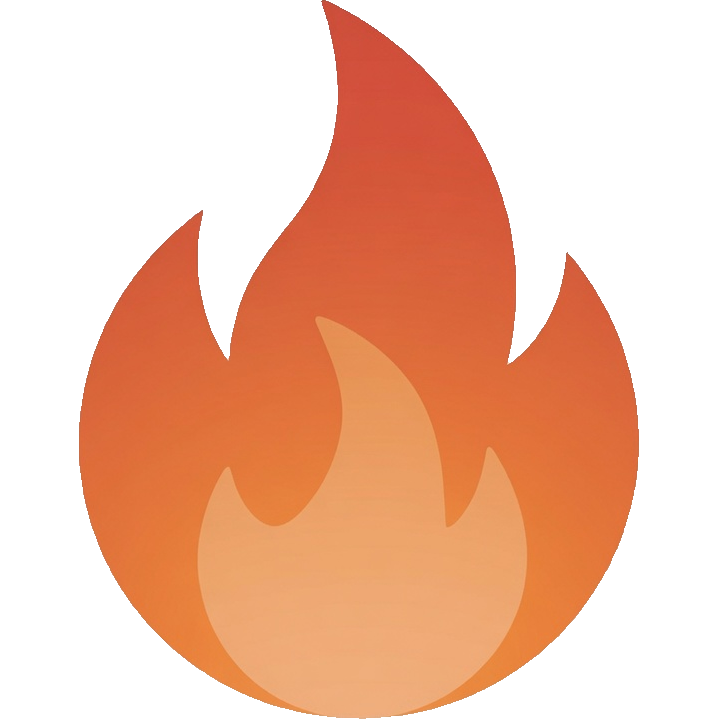
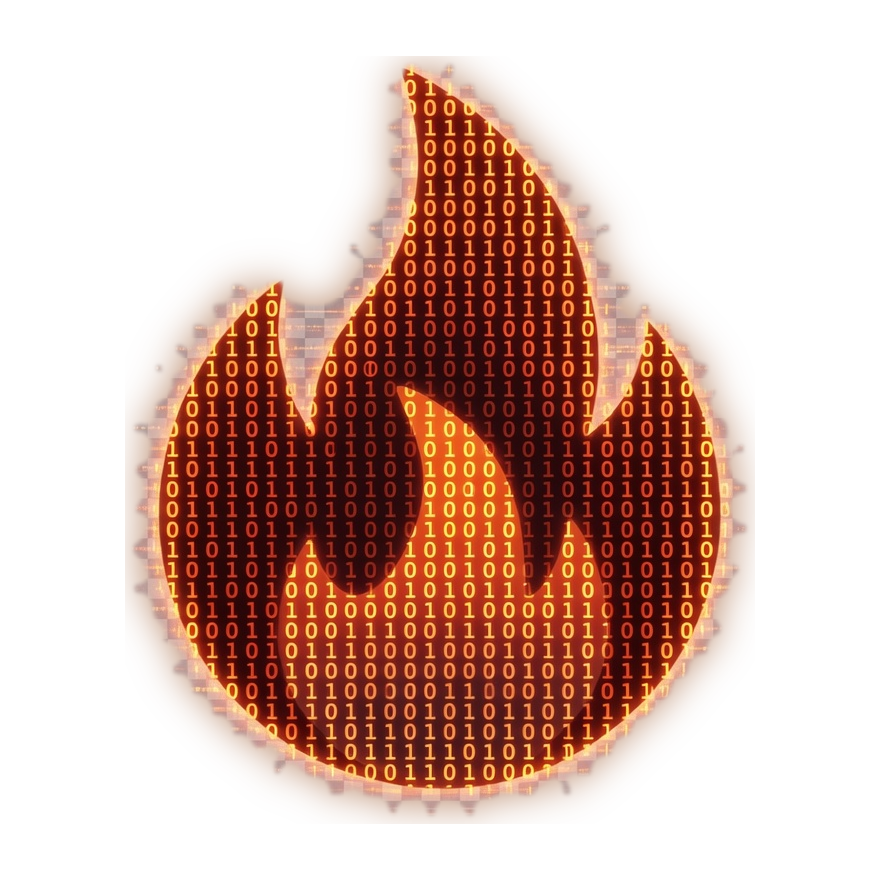
feat(app): binary-flame brand art + animated video loader on the splash
New owner-approved art: the binary-digit flame. Checkerboard keyed out,
largest-component masking to drop glow-zone checker fringe, clean
synthetic ember glow rebuilt; composited to the Big Sur squircle as
app/build/icon.png and squared with alpha as the in-app FlameMark
raster (sidebar, About, static splash).

The supplied burn animation becomes the splash loader: checker keyed
per-frame and the splash's fixed dark canvas (#171310) baked in (h264
has no alpha), audio stripped, 944KB looping video shown while the
first scan runs. Splash canvas and text colors are now theme-fixed so
video and page never diverge; reduced motion/tests keep the static
mark, verified by test.

Flame/splash/motion suites green in isolation (full suite re-verified
when the in-flight quota batch commits); typecheck + build green.

diff --git a/app/renderer/styles/plain.css b/app/renderer/styles/plain.css
@@ -447,10 +447,16 @@ td:first-child { font-size: var(--fs-body); font-weight: var(--fw-body); }
 .quota-connection { display: inline-flex; align-items: center; gap: 5px; color: var(--mut); font-size: 10px; font-weight: 520; }
 .quota-connection i { width: 6px; height: 6px; border-radius: 50%; background: var(--mut2); }
 .quota-connection-connected i { background: var(--ok); }
-.quota-connection-stale i, .quota-connection-transientFailure i { background: var(--warn); }
+.quota-connection-stale i, .quota-connection-transientFailure i, .quota-connection-accessDenied i { background: var(--warn); }
 .quota-connection-terminalFailure i { background: var(--bad); }
 .quota-connection-note { margin: 0; color: var(--mut); font-size: 12px; }
 .quota-connection-note.quota-terminal { color: var(--bad); }
+.quota-connect { display: flex; flex-wrap: wrap; align-items: baseline; gap: 8px; }
+.quota-connect-toggle { flex: none; }
+.quota-connect-guide { flex-basis: 100%; display: flex; flex-direction: column; align-items: flex-start; gap: 6px; margin-top: 4px; }
+.quota-connect-cmd { margin: 0; }
+.quota-connect-cmd .set-mono { padding: 2px 6px; border: 1px solid var(--line); border-radius: 5px; background: color-mix(in srgb, var(--ink) 5%, transparent); }
+.quota-connect-cmd-hint { color: var(--mut); font-size: 12px; }
 .quota-windows { display: grid; gap: var(--sp-4); }
 .quota-window-labels { display: flex; align-items: baseline; gap: 12px; color: var(--ink); font-size: 12px; }
 .quota-window-labels span:last-child { margin-left: auto; color: var(--mut); font-family: var(--mono); font-size: 11px; font-variant-numeric: tabular-nums; text-align: right; }
@@ -848,22 +854,26 @@ td:first-child { font-size: var(--fs-body); font-weight: var(--fw-body); }
 .splash {
   position: fixed; inset: 0; z-index: 3000;
   display: flex; flex-direction: column; align-items: center; justify-content: center; gap: 20px;
+  /* Fixed dark boot canvas in both themes: the loader video bakes this exact
+     base color (#171310) in place of its keyed background, so the splash and
+     the video must never diverge. Text colors are fixed for the same reason. */
   background:
-    radial-gradient(120% 80% at 50% 42%, color-mix(in srgb, var(--accent) 8%, var(--canvas)), var(--canvas) 70%);
+    radial-gradient(120% 80% at 50% 42%, color-mix(in srgb, #f2701c 8%, #171310), #171310 70%);
   opacity: 1; transition: opacity 250ms ease;
 }
 .splash-out { opacity: 0; }
+.splash-video { display: block; }
 .splash-mark { position: relative; display: flex; align-items: center; justify-content: center; }
 .splash-mark::before {
   content: ''; position: absolute; inset: -40% -40%; z-index: -1; border-radius: 50%;
-  background: radial-gradient(circle, color-mix(in srgb, var(--accent) 34%, transparent), transparent 68%);
+  background: radial-gradient(circle, color-mix(in srgb, #f2701c 34%, transparent), transparent 68%);
   opacity: 0.5;
 }
 .splash-word {
-  font-size: var(--fs-kpi); font-weight: var(--fw-strong); letter-spacing: -0.01em; color: var(--accent);
+  font-size: var(--fs-kpi); font-weight: var(--fw-strong); letter-spacing: -0.01em; color: #f2701c;
 }
 .splash-version {
-  margin-top: 2px; font-size: var(--fs-label); font-weight: var(--fw-body); color: var(--mut);
+  margin-top: 2px; font-size: var(--fs-label); font-weight: var(--fw-body); color: #b3a595;
 }
 
 .splash-lit .splash-mark {

diff --git a/app/renderer/components/Splash.tsx b/app/renderer/components/Splash.tsx
@@ -2,8 +2,9 @@ import { useEffect, useRef, useState } from 'react'
 import { createPortal } from 'react-dom'
 
 import { FlameMark } from './FlameMark'
-import { motionClass, reducedMotion } from '../lib/motion'
+import { motionClass, motionEnabled, reducedMotion } from '../lib/motion'
 import { version } from '../../package.json'
+import loaderVideo from '../assets/splash-loader.mp4'
 
 const MIN_ON_SCREEN_MS = 600
 const CROSSFADE_MS = 250
@@ -55,9 +56,15 @@ export function Splash({ hasData, hasError }: { hasData: boolean; hasError: bool
   const base = phase === 'out' ? 'splash splash-out' : 'splash'
   return createPortal(
     <div className={motionClass(base, 'splash-lit')} aria-hidden="true">
-      <div className="splash-mark">
-        <FlameMark size={76} />
-      </div>
+      {motionEnabled() ? (
+        // The animated burn (checker keyed out, dark canvas baked in), looping
+        // while the first scan runs. Static mark under reduced motion/tests.
+        <video className="splash-video" src={loaderVideo} width={232} height={232} autoPlay muted loop playsInline />
+      ) : (
+        <div className="splash-mark">
+          <FlameMark size={76} />
+        </div>
+      )}
       <div className="splash-word">CodeBurn</div>
       <div className="splash-version">v{version}</div>
     </div>,

diff --git a/app/renderer/components/Splash.test.tsx b/app/renderer/components/Splash.test.tsx
@@ -20,8 +20,11 @@ describe('Splash', () => {
     render(<Splash hasData={false} hasError={false} />)
     const el = splashEl()
     expect(el).toBeInTheDocument()
-    // Static under vitest / the closed motion gate: no ignite/pulse class.
+    // Static under vitest / the closed motion gate: no ignite/pulse class,
+    // the static mark instead of the loader video.
     expect(el).not.toHaveClass('splash-lit')
+    expect(el?.querySelector('video')).toBeNull()
+    expect(el?.querySelector('.flamemark')).not.toBeNull()
   })
 
   it('holds the min on-screen time, then crossfades away once data lands', () => {